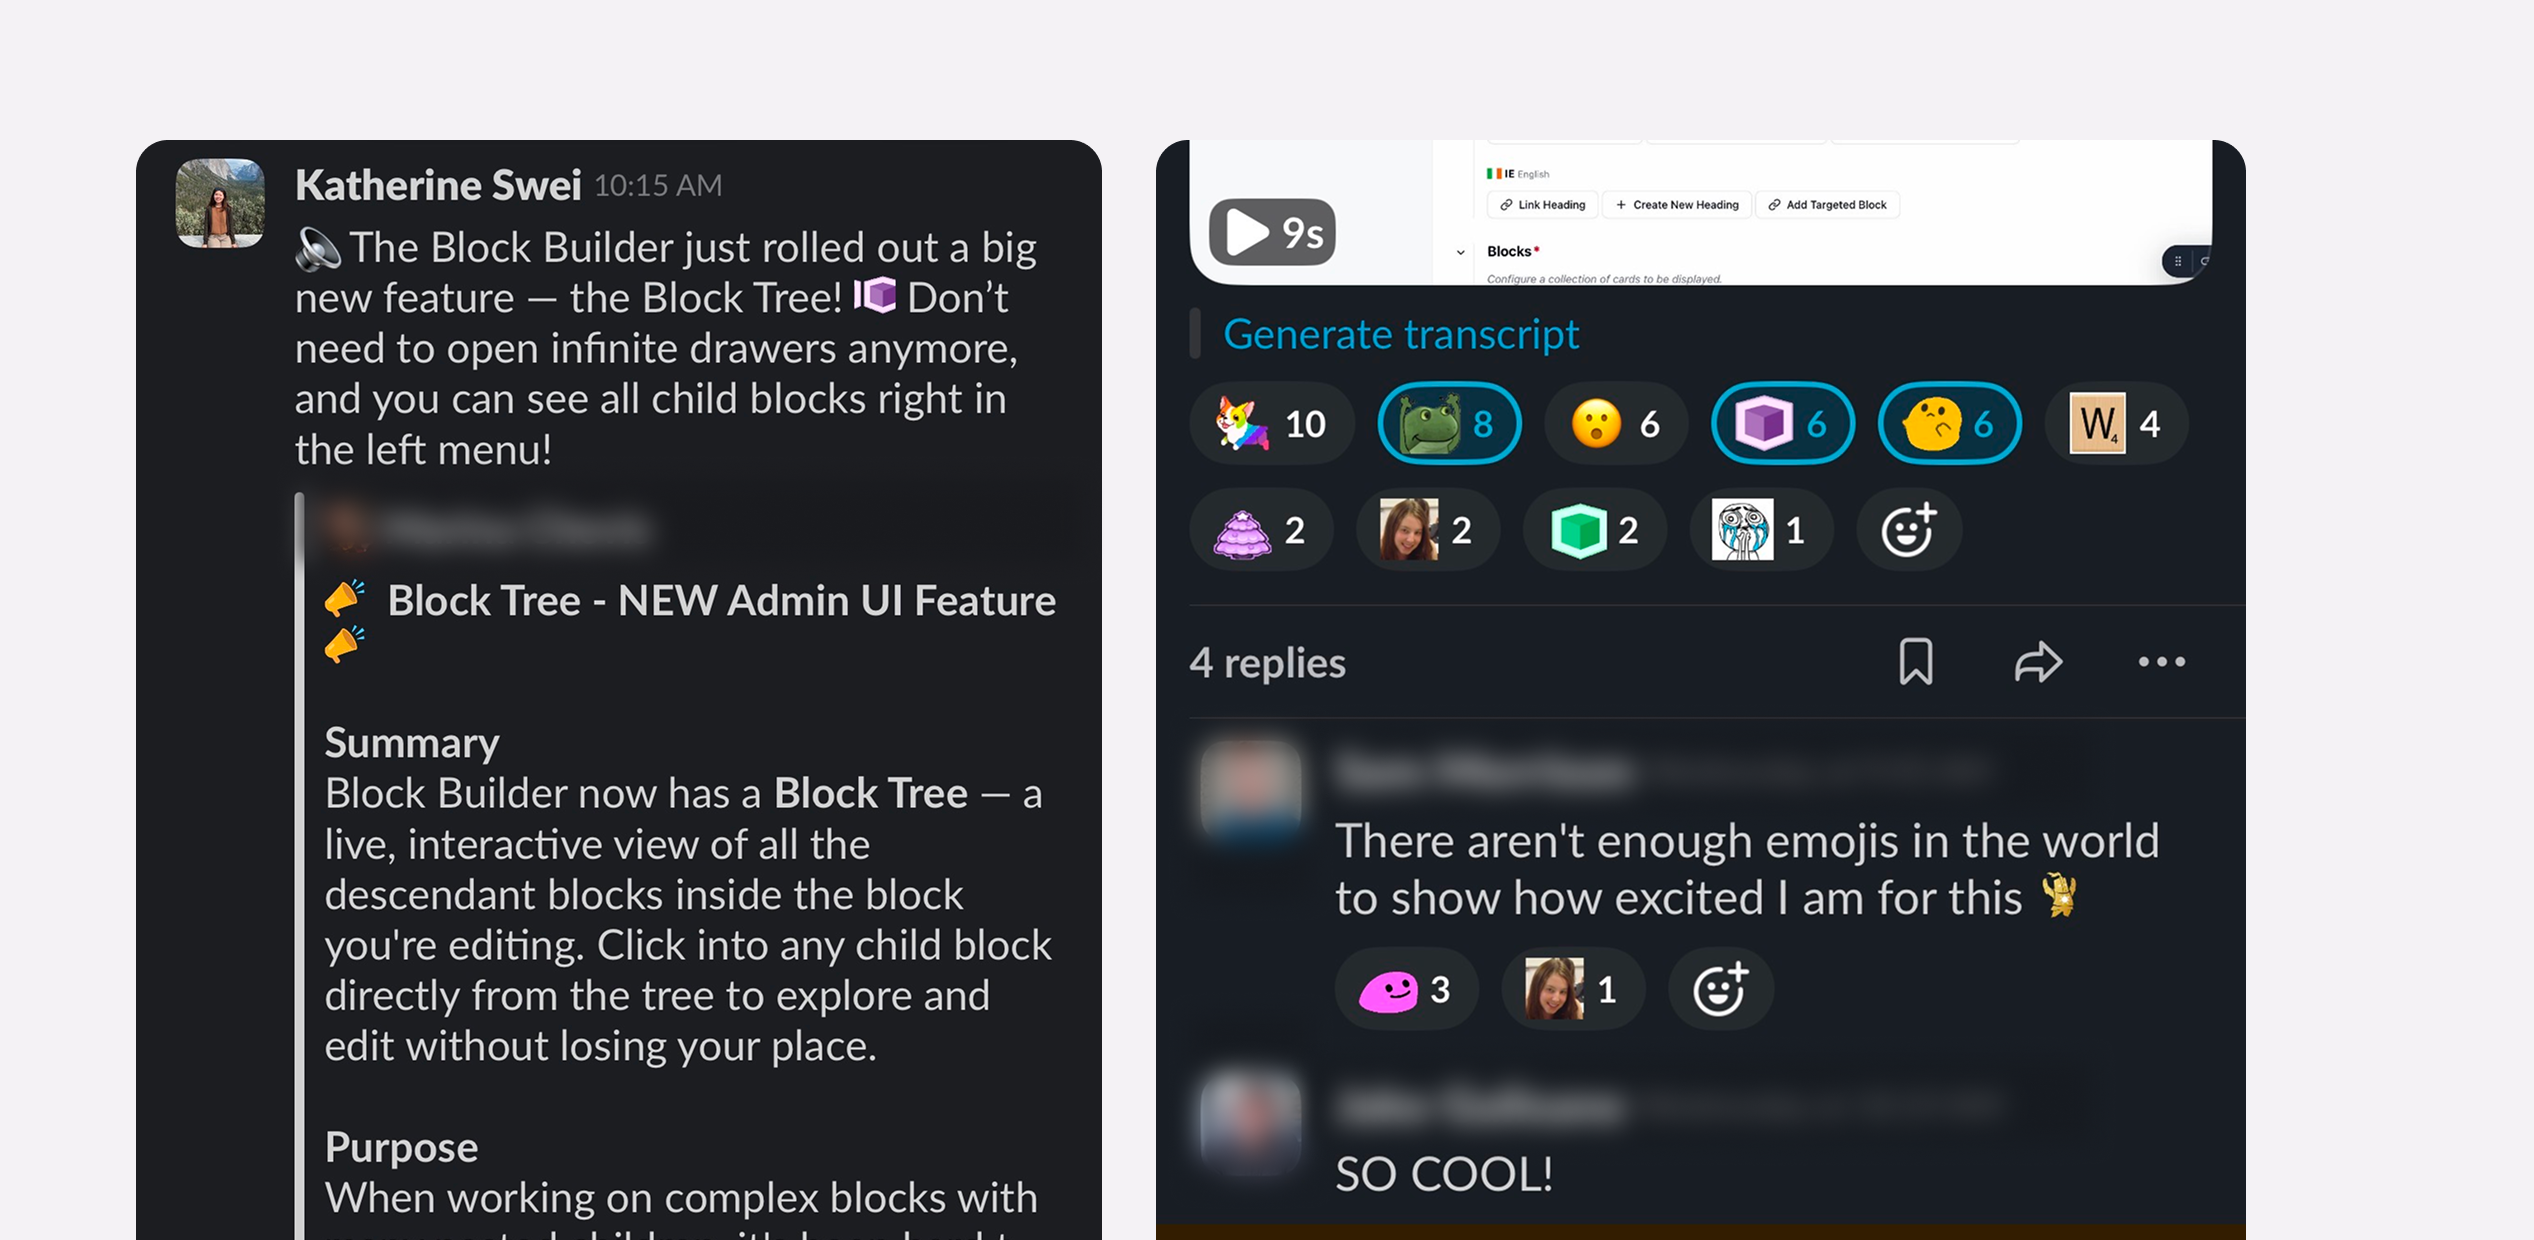
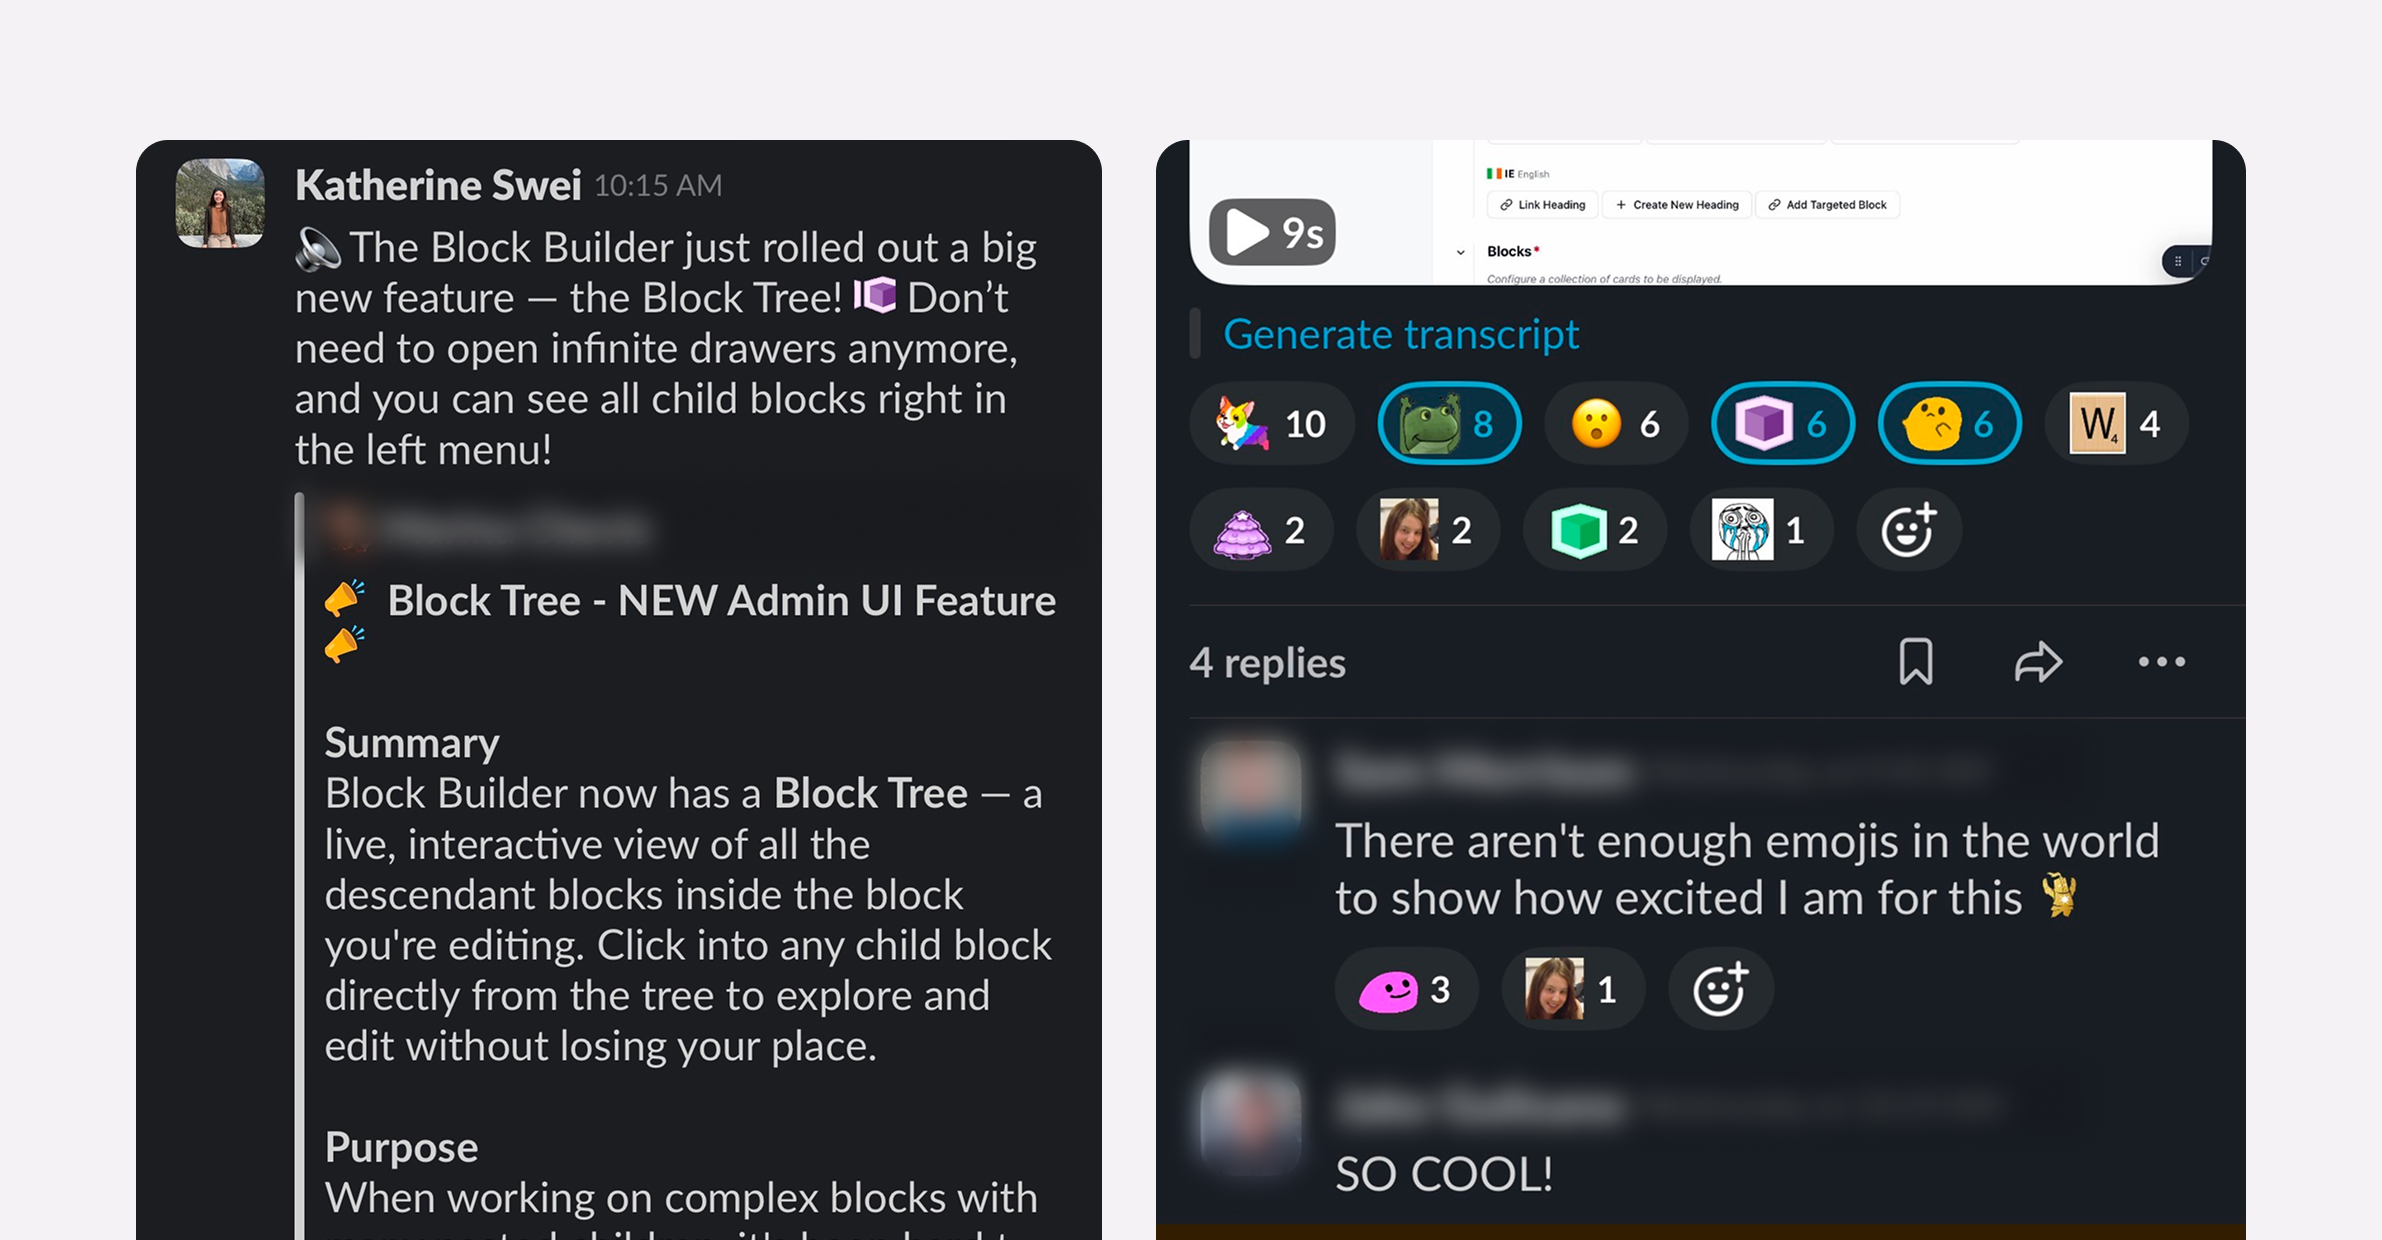
Add Back-to-top button, whoosh CTA sound, and solution-pair polish
- Add outline Back-to-top button to all project pages (shared JS + CSS),
  appears on scroll, smooth-scrolls to top
- Play whoosh sound on the Core Platform "Jump to the Solution" button
- Swap solution pair to old IA (left) + new IA video (right) with
  Before/After captions
- Re-crop user-feedback image to equal side margins

Changed region(s): [[0.0311, 0.0919, 0.9631, 1.0], [0.5281, 0.7661, 0.7456, 0.8274], [0.6213, 0.6129, 0.6835, 0.6435]]

diff --git a/case-core-platform.html b/case-core-platform.html
@@ -43,7 +43,9 @@
       .exploration-figure--slides .exploration-figure__frame img { max-height: 280px; }
     }
     .sol-pair { display: grid; grid-template-columns: 1fr 1fr; gap: clamp(16px, 2.5vw, 28px); align-items: stretch; margin-top: clamp(32px, 4vw, 48px); }
-    .sol-figure { margin: 0; min-width: 0; display: flex; }
+    .sol-figure { margin: 0; min-width: 0; display: flex; flex-direction: column; }
+    .sol-figure figcaption { margin-top: 8px; font-size: var(--text-sm); font-weight: var(--weight-semibold); color: var(--color-text-primary); }
+    .sol-figure figcaption span { color: var(--color-text-tertiary); font-weight: var(--weight-regular); }
     .sol-figure__frame { background: var(--color-surface); border: 1px solid var(--color-border-subtle); border-radius: var(--radius-lg); padding: 14px; width: 100%; aspect-ratio: 6016 / 3172; display: flex; align-items: center; justify-content: center; position: relative; }
     .sol-figure__frame img,
     .sol-figure__frame video { width: 100%; height: 100%; object-fit: contain; display: block; border-radius: 8px; }
@@ -533,16 +535,18 @@
         <div class="sol-pair">
           <figure class="sol-figure">
             <div class="sol-figure__frame">
+              <img src="./assets/images/WF-Old-IA.png" alt="The old Block Builder information architecture" />
+            </div>
+            <figcaption>Before <span>· A fixed workspace</span></figcaption>
+          </figure>
+          <figure class="sol-figure">
+            <div class="sol-figure__frame">
               <video autoplay loop muted playsinline aria-label="Workspace information architecture growing from two parts into three with a preview panel">
                 <source src="./assets/videos/wf-new-ia.webm" type="video/webm" />
                 <source src="./assets/videos/wf-new-ia.mp4" type="video/mp4" />
               </video>
             </div>
-          </figure>
-          <figure class="sol-figure">
-            <div class="sol-figure__frame">
-              <img src="./assets/images/WF-IA.png" alt="The new Block Builder workspace with capabilities, main work, and preview side by side" />
-            </div>
+            <figcaption>After <span>· A flexible panel-based workspace</span></figcaption>
           </figure>
         </div>
 
@@ -684,5 +688,17 @@
   </footer>
 
   <script src="./js/portfolio.js"></script>
+  <script>
+    // Whoosh sound on the "Jump to the Solution" button
+    (function () {
+      var btn = document.querySelector('.btn-jump');
+      if (!btn) return;
+      var whoosh = new Audio('./assets/audio/whoosh.mp3');
+      whoosh.preload = 'auto';
+      btn.addEventListener('click', function () {
+        try { whoosh.currentTime = 0; whoosh.play(); } catch (e) {}
+      });
+    })();
+  </script>
 </body>
 </html>

diff --git a/css/case-study.css b/css/case-study.css
@@ -313,3 +313,34 @@
 @media (prefers-reduced-motion: reduce) {
   .cs-pager__btn:hover { transform: none; }
 }
+
+/* ── Back-to-top button (project pages) ─────────────────────────── */
+.back-to-top {
+  position: fixed;
+  left: clamp(16px, 3vw, 32px);
+  bottom: clamp(16px, 3vw, 32px);
+  z-index: 50;
+  display: inline-flex;
+  align-items: center;
+  gap: 8px;
+  padding: 10px 18px;
+  border-radius: 100px;
+  border: 1px solid var(--color-border);
+  background: var(--color-bg);
+  color: var(--color-text-primary);
+  font-family: inherit;
+  font-size: var(--text-sm);
+  font-weight: var(--weight-medium);
+  cursor: pointer;
+  opacity: 0;
+  visibility: hidden;
+  transform: translateY(8px);
+  box-shadow: 0 4px 14px rgba(28, 27, 25, 0.08);
+  transition: opacity .25s var(--ease, ease), transform .25s var(--ease, ease),
+              visibility .25s var(--ease, ease), background .2s var(--ease, ease);
+}
+.back-to-top.is-visible { opacity: 1; visibility: visible; transform: translateY(0); }
+.back-to-top:hover { background: var(--color-surface); }
+.back-to-top:focus-visible { outline: 2px solid var(--color-accent); outline-offset: 3px; }
+.back-to-top__arrow { font-size: 1em; line-height: 1; }
+@media (prefers-reduced-motion: reduce) { .back-to-top { transition: opacity .25s ease, visibility .25s ease; transform: none; } }

diff --git a/js/portfolio.js b/js/portfolio.js
@@ -262,3 +262,26 @@ document.addEventListener('DOMContentLoaded', () => {
     });
   }
 });
+
+// ── Back-to-top button (case-study / project pages) ──────────────────
+(function () {
+  if (!document.querySelector('main.cs')) return;
+
+  var btn = document.createElement('button');
+  btn.type = 'button';
+  btn.className = 'back-to-top';
+  btn.setAttribute('aria-label', 'Back to top');
+  btn.innerHTML = '<span class="back-to-top__arrow" aria-hidden="true">↑</span> Back to top';
+  document.body.appendChild(btn);
+
+  btn.addEventListener('click', function () {
+    window.scrollTo({ top: 0, behavior: 'smooth' });
+  });
+
+  var toggle = function () {
+    if (window.scrollY > 400) btn.classList.add('is-visible');
+    else btn.classList.remove('is-visible');
+  };
+  window.addEventListener('scroll', toggle, { passive: true });
+  toggle();
+})();
